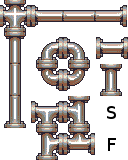
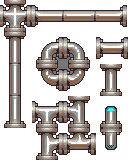
Asset update, water is rendering halfway properly now

diff --git a/src/pipe.js b/src/pipe.js
@@ -6,7 +6,7 @@ module.exports = exports = Pipe;
 function Pipe(type) {
   this.type = type;
   this.fillLevel = 0;
-  this.maximum = 32;
+  this.maximum = (type == "start" || type == "finish") ? 16 : 32;
   this.direction = "";
   this.connections = setConnections(this.type);
 }
@@ -42,6 +42,14 @@ Pipe.prototype.update = function () {
 function setConnections(type) {
   var connections;
   switch (type) {
+    case "start":
+      connections = [false, false, true, false];
+      break;
+
+    case "finish":
+      connections = [true, false, false, false];
+      break;
+
     case "cross":
       connections = [true, true, true, true];
       break;
@@ -92,6 +100,20 @@ function setConnections(type) {
 Pipe.prototype.stupidWaterRenderingCrapThatImTiredOfDealingWith = function () {
   var rect = new Object();
   switch (this.type) {
+    case "start":
+      rect.x = 14;
+      rect.y = 16;
+      rect.width = 2;
+      rect.height = this.fillLevel;
+      break;
+
+    case "finish":
+      rect.x = 14;
+      rect.y = 0;
+      rect.width = 2;
+      rect.height = this.fillLevel;
+      break;
+
     case "cross":
     case "vertical":
     case "horizontal":
@@ -127,7 +149,7 @@ Pipe.prototype.stupidWaterRenderingCrapThatImTiredOfDealingWith = function () {
       break;
 
     case "elbow_rd":
-      switch (instance.direction) {
+      switch (this.direction) {
         case "up":
           rect.x = 14;
           rect.y = 32;
@@ -145,7 +167,7 @@ Pipe.prototype.stupidWaterRenderingCrapThatImTiredOfDealingWith = function () {
       break;
 
     case "elbow_ru":
-      switch (instance.direction) {
+      switch (this.direction) {
         case "left":
           rect.x = 32;
           rect.y = 14;
@@ -163,7 +185,7 @@ Pipe.prototype.stupidWaterRenderingCrapThatImTiredOfDealingWith = function () {
       break;
 
     case "elbow_lu":
-      switch (instance.direction) {
+      switch (this.direction) {
         case "right":
           rect.x = 0;
           rect.y = 15;
@@ -181,7 +203,7 @@ Pipe.prototype.stupidWaterRenderingCrapThatImTiredOfDealingWith = function () {
       break;
 
     case "elbow_ld":
-      switch (instance.direction) {
+      switch (this.direction) {
         case "right":
           rect.x = 0;
           rect.y = 14;

diff --git a/src/board.js b/src/board.js
@@ -3,7 +3,7 @@
 module.exports = exports = Board;
 
 const Pipe = require('./pipe');
-const MS_PER_FRAME = 1000 / 8;
+const MS_PER_FRAME = 1000 / 16;
 
 function Board(width, height, tileSize) {
   this.width = width / tileSize;
@@ -67,6 +67,7 @@ Board.prototype.update = function (time) {
         //lose game
       }
     }
+    if (this.current.type == "finish" && this.current.fillLevel >= this.current.maximum) return true;
   }
 }
 
@@ -79,8 +80,10 @@ Board.prototype.render = function (ctx) {
 
       if (this.tiles[x][y].fillLevel > 0) {
         var rect = this.tiles[x][y].stupidWaterRenderingCrapThatImTiredOfDealingWith();
+        var scale = this.tileSize / this.spriteSize;
         ctx.fillStyle = "#00FFFF";
-        ctx.fillRect(rect.x, rect.y, rect.width, rect.height);
+        ctx.fillRect(x * this.tileSize + rect.x * scale, y * this.tileSize + rect.y * scale,
+          rect.width * scale, rect.height * scale);
       }
 
       switch (this.tiles[x][y].type) {
@@ -277,8 +280,10 @@ function setStartFinish(instance) {
     finish.y = rollRandom(1, 7);
   } while (start == finish);
 
-  start.direction = randomDirection();
-  finish.direction = randomDirection();
+  // start.direction = randomDirection();
+  // finish.direction = randomDirection();
+  start.direction = "down";
+  finish.direction = "down";
 
   instance.start = start;
   instance.finish = finish;

diff --git a/src/app.js b/src/app.js
@@ -29,7 +29,9 @@ var masterLoop = function (timestamp) {
  * the number of milliseconds passed since the last frame.
  */
 function update(elapsedTime) {
-  board.update(elapsedTime);
+  if (board.update(elapsedTime)) {
+    game.paused(true);
+  }
 }
 
 /**
